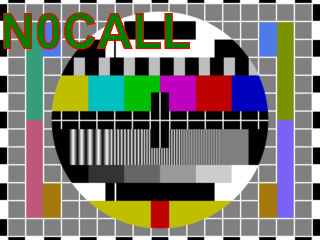
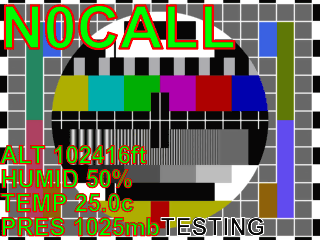
Additional text overlay

diff --git a/src/sstv-image-tools.cpp b/src/sstv-image-tools.cpp
@@ -1,13 +1,22 @@
 #include "sstv-image-tools.h"
 
 #include <Magick++/Color.h>
+
 #include <iostream>
 #include <list>
 
-SstvImage::Color::Color(int red, int green, int blue) {
+SstvImage::Color::Color(float red, float green, float blue) {
+  if (red < 0.0 || red > 1.0 || green < 0.0 || green > 1.0 || blue < 0.0 ||
+      blue > 1.0) {
+    throw SstvImageToolsException("Invalid color value");
+  }
   this->r = red;
   this->g = green;
   this->b = blue;
+}
+
+Magick::ColorRGB SstvImage::Color::GetMagickColor() const {
+  return Magick::ColorRGB(r, g, b);
 }
 
 SstvImage::SstvImage(SstvImage::Mode mode, std::string source_image_path,
@@ -38,29 +47,68 @@ void SstvImage::Write() {
 }
 
 void SstvImage::AddCallSign(const std::string &callsign,
-                            const SstvImage::Color &color) {
-  (void)color;
+                            const SstvImage::Color &fill_color,
+                            const SstvImage::Color &stroke_color) {
+  (void)fill_color;
+  (void)stroke_color;
 
-  int font_size = 25 * height_scaler_;
+  int font_size = kCallSignFontHeight_ * height_scaler_;
 
   std::vector<Magick::Drawable> draw_list(
-    {Magick::DrawableFont("Arial-Bold"), 
-    Magick::DrawablePointSize(font_size), 
-    Magick::DrawableText(0, 0 + font_size * 0.8, callsign),
-    Magick::DrawableStrokeColor("red"),
-    Magick::DrawableStrokeWidth(2),
-    Magick::DrawableStrokeAntialias(true),
-    Magick::DrawableFillColor("green")}
-);
+      {Magick::DrawableFont("Arial-Bold"), Magick::DrawablePointSize(font_size),
+       Magick::DrawableText(0, 0 + font_size * 0.8, callsign),
+       Magick::DrawableStrokeColor(stroke_color.GetMagickColor()),
+       Magick::DrawableStrokeWidth(2), Magick::DrawableStrokeAntialias(true),
+       Magick::DrawableFillColor(fill_color.GetMagickColor())});
 
   image_.draw(draw_list);
+}
+
+void SstvImage::AddText(const std::vector<std::string> &text,
+                        const bool left_column,
+                        const SstvImage::Color fill_color,
+                        const SstvImage::Color stroke_color) {
+  int font_size = 10 * height_scaler_;
+
+  std::vector<Magick::Drawable> draw_list(
+      {Magick::DrawableFont("Arial-Bold"), Magick::DrawablePointSize(font_size),
+       Magick::DrawableFillColor(fill_color.GetMagickColor()),
+       Magick::DrawableStrokeColor(stroke_color.GetMagickColor()),
+       Magick::DrawableStrokeWidth(1)});
+
+  int y = left_column ? 0 : GetWidth() / 2;
+
+  int i = 1;
+  for (auto line : text) {
+    draw_list.push_back(Magick::DrawableText(
+        y, GetHeight() + font_size * 0.8 - (i * font_size), line));
+    i++;
+  }
+
+  image_.draw(draw_list);
+}
+
+void SstvImage::AdjustColors() {
+  image_.quantizeColorSpace(Magick::RGBColorspace);
+  image_.quantizeColors(256);
+  image_.quantize();
+  image_.modifyImage();
+  image_.gamma(1.7);
+  image_.enhance();
+
+  /*
+  This is a hack to deal with the color space issues when reading pixel values.
+  Not a fan of this solution, and it needs to be fixed, but it works for now.
+  */
+  image_.write("tmp.png");
+  image_.read("tmp.png");
 }
 
 bool SstvImage::GetPixel(const int x, const int y, SstvImage::Pixel &pixel) {
   if (x < 0 || x >= width_ || y < 0 || y >= height_) {
     return false;
   }
-  
+
   MagickCore::Quantum *pixels = image_.getPixels(0, 0, width_, height_);
   unsigned index = (y * width_ + x) * image_.channels();
 
@@ -68,20 +116,6 @@ bool SstvImage::GetPixel(const int x, const int y, SstvImage::Pixel &pixel) {
   pixel.g = pixels[index + 1];
   pixel.b = pixels[index + 2];
   return true;
-}
-
-void SstvImage::AdjustColors() {
-    /*
-  This is a hack to deal with the color space issues. Not a fan of this solution.
-  */
-  image_.quantizeColorSpace(Magick::RGBColorspace);
-  image_.quantizeColors(256);
-  image_.quantize();
-  image_.modifyImage();
-  image_.gamma(1.7);
-  image_.enhance();
-  image_.write("tmp.png");
-  image_.read("tmp.png");
 }
 
 void SstvImage::Scale() {
@@ -123,42 +157,4 @@ void SstvImage::Scale() {
     crop_size.aspect(true);
     image_.resize(crop_size);
   }
-
-  //image_.enhance();
-  /*
-  image_.quantizeColorSpace(Magick::RGBColorspace);
-  image_.quantizeColors(256);
-  image_.quantize();
-  image_.modifyImage();
-  image_.colorSpace(Magick::sRGBColorspace);
-  image_.type(Magick::TrueColorType);
-  if (image_.colorSpace() == Magick::sRGBColorspace){
-    std::cout << "sRGBColorspace" << std::endl;
-  } else if (image_.colorSpace() == Magick::RGBColorspace) {
-    std::cout << "RGBColorspace" << std::endl;
-  } else if (image_.colorSpace() == Magick::CMYColorspace) {
-    std::cout << "CMYColorspace" << std::endl;
-  } else if (image_.colorSpace() == Magick::GRAYColorspace) {
-    std::cout << "GRAYColorspace" << std::endl;
-  } else {
-    std::cout << "Unknown colorspace" << std::endl;
-  }
-
-  std::cout << "Channels: " << image_.channels() << std::endl;
-  image_.channel(Magick::RedChannel);
-  */
-
-  //image_.quantizeColorSpace(Magick::RGBColorspace); // THESE
-  //image_.quantizeColors(256); // THESE
-  //image_.quantize(); // THESE
-  //image_.normalize();
-  //image_.enhance(); Made things a lot worse
-
-  /*
-  Known working solution:
-  image_.quantizeColorSpace(Magick::RGBColorspace);
-  image_.quantizeColors(256);
-  image_.quantize();
-  image_.modifyImage();
-  */
 }

diff --git a/include/sstv-image-tools.h b/include/sstv-image-tools.h
@@ -9,24 +9,26 @@
 
 class SstvImage {
  public:
-  enum class Mode { 
-    ROBOT_8_BW,  // 160x120 (4:3) Black and White
-    ROBOT_12_BW, // 160x120 (4:3) Black and White
-    ROBOT_24_BW, // 320x240 (4:3) Black and White
-    ROBOT_36_BW, // 320x240 (4:3) Black and White
-    ROBOT_12_COLOR, // 160x120 (4:3) Color
-    ROBOT_24_COLOR, // 320x240 (4:3) Color
-    ROBOT_36_COLOR, // 320x240 (4:3) Color
-    ROBOT_72_COLOR, // 640x480 (4:3) Color 
-    CUSTOM_TEST };
+  enum class Mode {
+    ROBOT_8_BW,      // 160x120 (4:3) Black and White
+    ROBOT_12_BW,     // 160x120 (4:3) Black and White
+    ROBOT_24_BW,     // 320x240 (4:3) Black and White
+    ROBOT_36_BW,     // 320x240 (4:3) Black and White
+    ROBOT_12_COLOR,  // 160x120 (4:3) Color
+    ROBOT_24_COLOR,  // 320x240 (4:3) Color
+    ROBOT_36_COLOR,  // 320x240 (4:3) Color
+    ROBOT_72_COLOR,  // 640x480 (4:3) Color
+    CUSTOM_TEST
+  };
 
   struct Color {
-    int r = -1;
-    int g = -1;
-    int b = -1;
+    float r = -1.0;
+    float g = -1.0;
+    float b = -1.0;
     float gray_scale_value = -1;
-    Color(int r, int g, int b);   // 0 - 255
-    Color(int gray_scale_value);  // 0.0 - 1.0
+    Color(float r, float g, float b);  // 0 - 255
+    Color(int gray_scale_value);       // 0.0 - 1.0, not yet implemented
+    Magick::ColorRGB GetMagickColor() const;
   };
 
   struct Pixel {
@@ -50,23 +52,30 @@ class SstvImage {
   void Write(); /** @todo should pass the destination path here*/
 
   void AddCallSign(const std::string &callsign,
-                   const SstvImage::Color &color = {-2, -2, -2});
-  void AddMessage(std::string message);
+                   const SstvImage::Color &fill_color = {0.0, 1.0, 0},
+                   const SstvImage::Color &stroke_color = {1.0, 0, 0});
+
+  void AddText(const std::vector<std::string> &text,
+               const bool left_column = true,
+               const SstvImage::Color fill_color = {0.0, 1.0, 0.0},
+               const SstvImage::Color stroke_color = {1.0, 0.0, 0.0});
+
+  void AdjustColors();
 
   bool GetPixel(const int x, const int y, SstvImage::Pixel &pixel);
   int GetWidth() const { return width_; }
   int GetHeight() const { return height_; }
 
-  void AdjustColors();
-
  private:
   void Scale();
-  
+
   std::pair<int, int> WorkspaceToImageCoordinates(int x, int y);
 
   int width_ = 0;
   int height_ = 0;
   double height_scaler_ = 1;
+  const int kCallSignFontHeight_ = 25;
+  const int kTextFontHeight_ = 10;
 
   std::string source_path_ = "";
   std::string destination_path_ = "";

diff --git a/example/example.cpp b/example/example.cpp
@@ -8,10 +8,19 @@ int main() {
   std::array<std::string, 3> test_images = {"test1.png", "test2.png",
                                             "test3.jpg"};
 
-  for (auto &image_path : test_images) {
+  std::vector<std::string> data = {"PRES 1025mb", "TEMP 25.0c",
+                                   "HUMID 50%", "ALT 102416ft" };
+
+  std::vector<std::string> data2 = {"TESTING"};
+
+  for (auto &image_path : test_images) { // Do this for each image
     SstvImage image(SstvImage::Mode::ROBOT_36_COLOR, image_path,
                     "converted_" + image_path);
+
     image.AddCallSign("N0CALL");
+    image.AddText(data);
+    image.AddText(data2, false, SstvImage::Color(0, 0, 0), SstvImage::Color(1, 1, 1));
+    image.AdjustColors(); // Optional, needed if getting rgb pixel values
 
     SstvImage::Pixel pixel;
     if (!image.GetPixel(128, 91, pixel)) {
